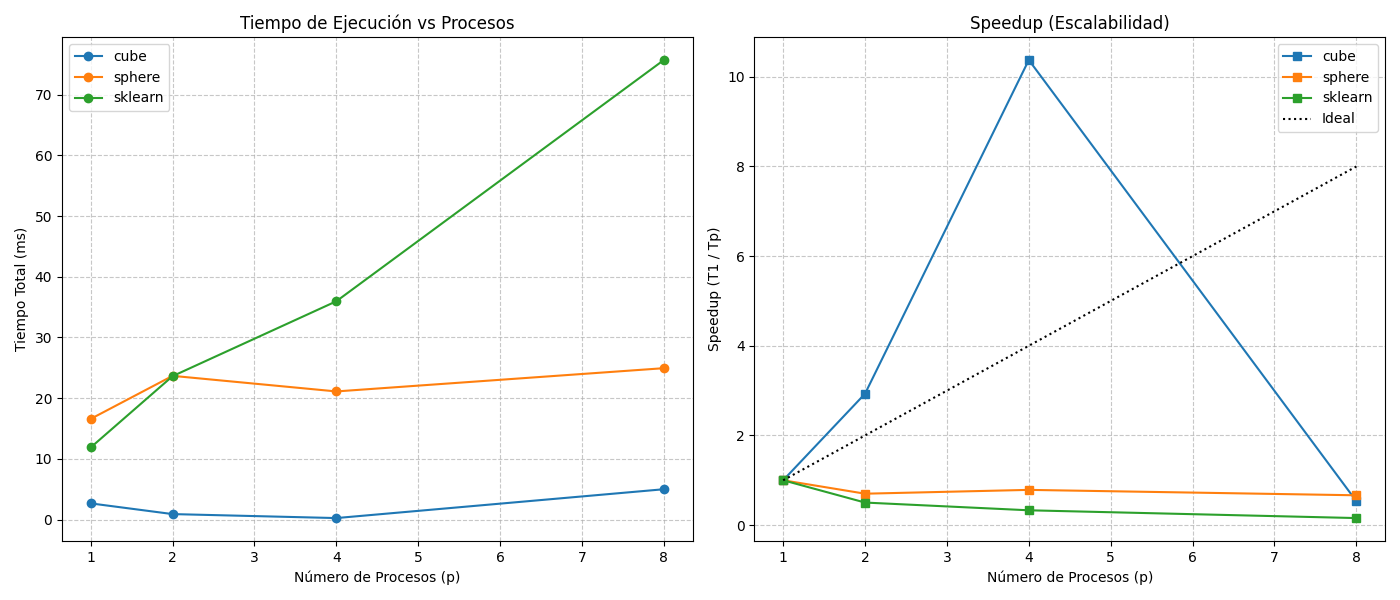
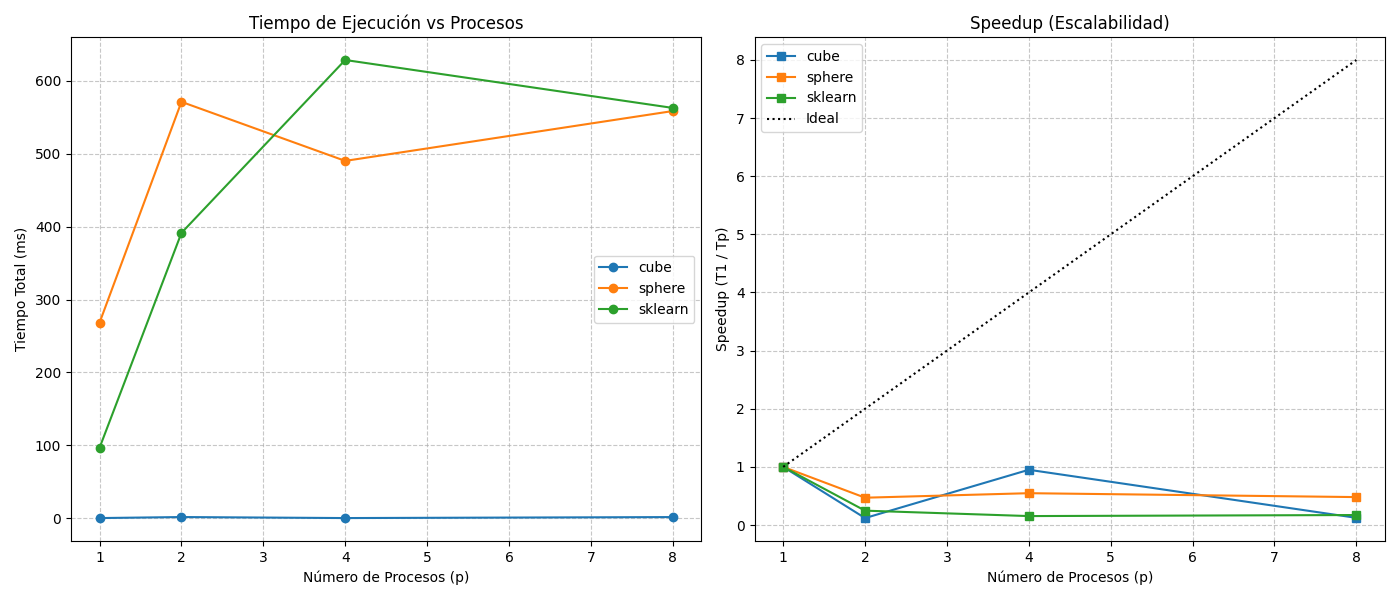
FEAT: Fixed metrics

diff --git a/mpi_rotation.py b/mpi_rotation.py
@@ -5,6 +5,7 @@ Rotación 3D paralela de nube de puntos usando MPI (modelo SPMD).
 
 Diego Villalba - 2024-06
 """
+
 import numpy as np
 import argparse
 import time
@@ -15,33 +16,43 @@ from mpi4py import MPI
 from matrices import Rx, Ry, Rz, R_arbitrary
 from clouds import make_cube, make_sphere, make_sklearn
 
+
 def plot_comparison(original, rotated, title=""):
     fig = plt.figure(figsize=(12, 5))
-    ax1 = fig.add_subplot(121, projection='3d')
-    ax2 = fig.add_subplot(122, projection='3d')
+    ax1 = fig.add_subplot(121, projection="3d")
+    ax2 = fig.add_subplot(122, projection="3d")
 
     # Configuración de puntos
-    ax1.scatter(original[:, 0], original[:, 1], original[:, 2], c='blue', s=20, alpha=0.6)
+    ax1.scatter(
+        original[:, 0], original[:, 1], original[:, 2], c="blue", s=20, alpha=0.6
+    )
     ax1.set_title("Original")
-    
-    ax2.scatter(rotated[:, 0], rotated[:, 1], rotated[:, 2], c='red', s=20, alpha=0.6)
+
+    ax2.scatter(rotated[:, 0], rotated[:, 1], rotated[:, 2], c="red", s=20, alpha=0.6)
     ax2.set_title(f"Rotado {title}")
 
     for ax in [ax1, ax2]:
-        ax.set_xlabel("X"); ax.set_ylabel("Y"); ax.set_zlabel("Z")
+        ax.set_xlabel("X")
+        ax.set_ylabel("Y")
+        ax.set_zlabel("Z")
         # Forzar ejes iguales para que el cubo no parezca un ladrillo
-        ax.set_box_aspect([1,1,1]) 
+        ax.set_box_aspect([1, 1, 1])
 
     plt.tight_layout()
     plt.show()
 
+
 def main():
     parser = argparse.ArgumentParser()
-    parser.add_argument("--object",  choices=["cube","sphere","sklearn"], default="cube")
-    parser.add_argument("--axis",    choices=["x","y","z","arbitrary"],   default="z")
-    parser.add_argument("--angle",   type=float, default=45.0)
-    parser.add_argument("--n",       type=int,   default=None)
-    parser.add_argument("--performance", action="store_true", help="Activa métricas CSV")
+    parser.add_argument(
+        "--object", choices=["cube", "sphere", "sklearn"], default="cube"
+    )
+    parser.add_argument("--axis", choices=["x", "y", "z", "arbitrary"], default="z")
+    parser.add_argument("--angle", type=float, default=45.0)
+    parser.add_argument("--n", type=int, default=None)
+    parser.add_argument(
+        "--performance", action="store_true", help="Activa métricas CSV"
+    )
     parser.add_argument("--plot", action="store_true", help="Muestra gráfica 3D")
     args = parser.parse_args()
 
@@ -51,23 +62,32 @@ def main():
 
     # 1. Matriz
     R_map = {"x": Rx, "y": Ry, "z": Rz}
-    R = R_arbitrary([1,1,0], args.angle) if args.axis == "arbitrary" else R_map[args.axis](args.angle)
+    R = (
+        R_arbitrary([1, 1, 0], args.angle)
+        if args.axis == "arbitrary"
+        else R_map[args.axis](args.angle)
+    )
 
     # 2. Setup inicial
     points = None
     original_copy = None
-    t_start = 0
+    # t_start = 0
+    comm.Barrier()
+    t_start = time.perf_counter()
 
     if rank == 0:
-        if args.object == "cube": points = make_cube()
-        elif args.object == "sphere": points = make_sphere(args.n or 500)
-        elif args.object == "sklearn": points = make_sklearn(args.n or 500)
-        
+        if args.object == "cube":
+            points = make_cube(args.n or 500)
+        elif args.object == "sphere":
+            points = make_sphere(args.n or 500)
+        elif args.object == "sklearn":
+            points = make_sklearn(args.n or 500)
+
         if args.plot:
             original_copy = points.copy()
-            
+
         t_start = time.perf_counter()
-    
+
     # 3. Distribución (Scatter)
     if rank == 0:
         chunks = np.array_split(points, size)
@@ -101,55 +121,30 @@ def main():
             with open(file, "a", newline="") as f:
                 writer = csv.writer(f)
                 if not exists:
-                    writer.writerow(["objeto", "n_pts", "n_procs", "total_ms", "comp_ms"])
-                writer.writerow([args.object, len(final_result), size, round(total_ms,3), round(comp_ms,3)])
+                    writer.writerow(
+                        ["objeto", "n_pts", "n_procs", "total_ms", "comp_ms"]
+                    )
+                writer.writerow(
+                    [
+                        args.object,
+                        len(final_result),
+                        size,
+                        round(total_ms, 3),
+                        round(comp_ms, 3),
+                    ]
+                )
             print(f"[CSV] Datos añadidos a {file}")
 
         if args.plot:
-            plot_comparison(original_copy, final_result, f"{args.axis.upper()} {args.angle}°")
+            plot_comparison(
+                original_copy, final_result, f"{args.axis.upper()} {args.angle}°"
+            )
 
     else:
         comm.send(local_rot, dest=0, tag=1)
 
     MPI.Finalize()
 
+
 if __name__ == "__main__":
     main()
-
-# # ── SPMD ───────────────────────────────────────────────────────────────────
-# comm = MPI.COMM_WORLD
-# rank = comm.Get_rank()
-# size = comm.Get_size()
-
-# AXIS, ANGLE = "z", 45.0
-# R = rot_z(ANGLE)  # todos calculan la misma R
-
-# # Rank 0 genera los puntos
-# points = make_cube() if rank == 0 else None
-
-# # Scatter manual (acepta N no divisible por p)
-# if rank == 0:
-#     chunks = np.array_split(points, size)
-#     for dst in range(1, size):
-#         comm.send(chunks[dst], dest=dst, tag=0)
-#     local = chunks[0]
-# else:
-#     local = comm.recv(source=0, tag=0)
-
-# # Cada proceso rota su porción
-# local_rot = local @ R.T
-
-# # Gather
-# if rank == 0:
-#     parts = [local_rot]
-#     for src in range(1, size):
-#         parts.append(comm.recv(source=src, tag=1))
-#     result = np.vstack(parts)
-#     print(f"Rotación {ANGLE}° eje {AXIS.upper()} completada.")
-#     print(f"Procesos: {size} | Puntos: {len(result)}")
-#     print(f"Primeros 3 puntos rotados:\n{result[:3].round(4)}")
-#     np.save("rotated_cube.npy", result)
-# else:
-#     comm.send(local_rot, dest=0, tag=1)
-
-# MPI.Finalize()

diff --git a/run_experiments.py b/run_experiments.py
@@ -7,7 +7,7 @@ def run_benchmark():
     # --- Configuración del Experimento ---
     objects = ["cube", "sphere", "sklearn"]
     # n_points = 50000  # Usamos muchos puntos para que el paralelismo valga la pena
-    n_points = 1_000_000
+    n_points = 10_000_000
     process_counts = [1, 2, 4, 8]
     csv_file = "benchmark_results.csv"
 
@@ -44,17 +44,17 @@ def plot_results(csv_path):
         subset = df[df['objeto'] == obj]
         
         # Referencia serial (T para p=1)
-        t_serial = subset[subset['n_procesos'] == 1]['total_ms'].values[0]
+        t_serial = subset[subset['n_procs'] == 1]['total_ms'].values[0]
         
         # Calcular Speedup (T_serial / T_paralelo)
         subset = subset.copy()
         subset['speedup'] = t_serial / subset['total_ms']
 
         # Gráfica 1: Tiempo Total
-        ax1.plot(subset['n_procesos'], subset['total_ms'], marker='o', label=f'{obj}')
+        ax1.plot(subset['n_procs'], subset['total_ms'], marker='o', label=f'{obj}')
         
         # Gráfica 2: Speedup
-        ax2.plot(subset['n_procesos'], subset['speedup'], marker='s', label=f'{obj}')
+        ax2.plot(subset['n_procs'], subset['speedup'], marker='s', label=f'{obj}')
 
     # Configurar Eje de Tiempos
     ax1.set_title("Tiempo de Ejecución vs Procesos")
@@ -64,7 +64,7 @@ def plot_results(csv_path):
     ax1.legend()
 
     # Configurar Eje de Speedup
-    ax2.set_line = ax2.plot(df['n_procesos'].unique(), df['n_procesos'].unique(), 
+    ax2.set_line = ax2.plot(df['n_procs'].unique(), df['n_procs'].unique(), 
                             color='black', linestyle=':', label='Ideal')
     ax2.set_title("Speedup (Escalabilidad)")
     ax2.set_xlabel("Número de Procesos (p)")

diff --git a/matrices.py b/matrices.py
@@ -7,7 +7,7 @@ Matrices de rotación 3D fundamentales + rotación arbitraria (Rodrigues).
 import numpy as np
 
 
-# ── Rotaciones fundamentales ────────────────────────────────────────────────
+# ── Rotaciones fundamentales 
 
 def Rx(deg):
     """Rotación alrededor del eje X."""
@@ -31,7 +31,7 @@ def Rz(deg):
                      [0,          0,          1]])
 
 
-# ── Rotación alrededor de eje arbitrario (fórmula de Rodrigues) ─────────────
+# ── Rotación alrededor de eje arbitrario (fórmula de Rodrigues) 
 
 def R_arbitrary(axis, deg):
     """
@@ -58,7 +58,7 @@ def R_arbitrary(axis, deg):
     return c * np.eye(3) + (1 - c) * np.outer(u, u) + s * skew
 
 
-# ── Demo ────────────────────────────────────────────────────────────────────
+# ── tests básicos de las matrices
 
 if __name__ == "__main__":
     np.set_printoptions(precision=4, suppress=True)
